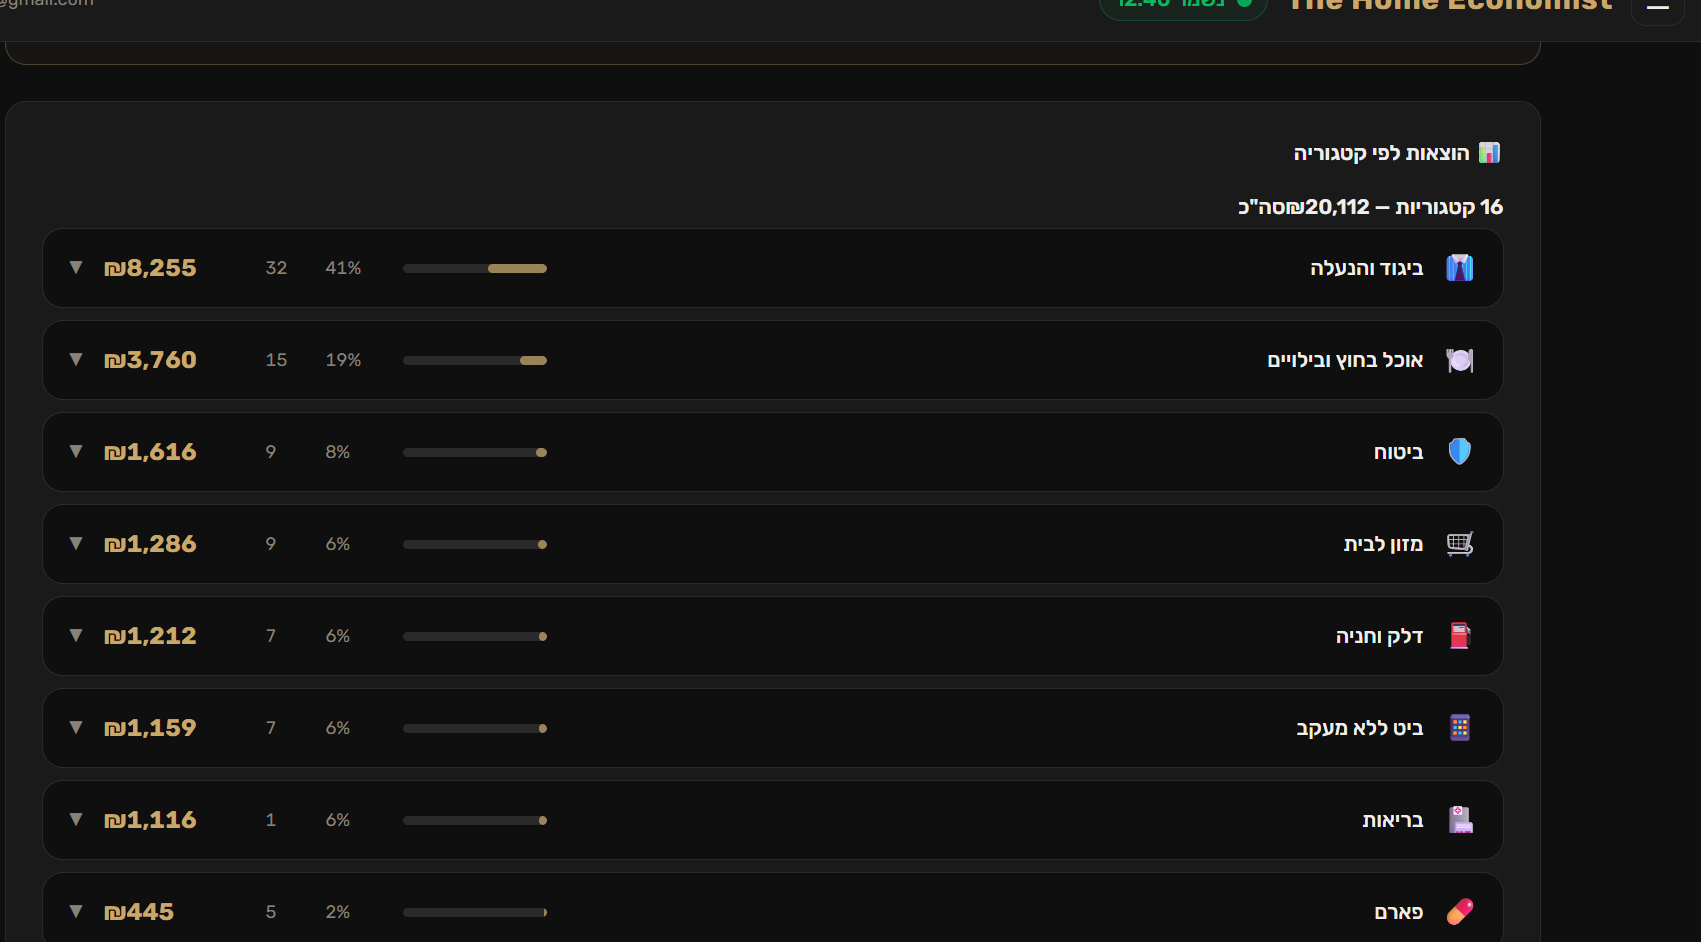
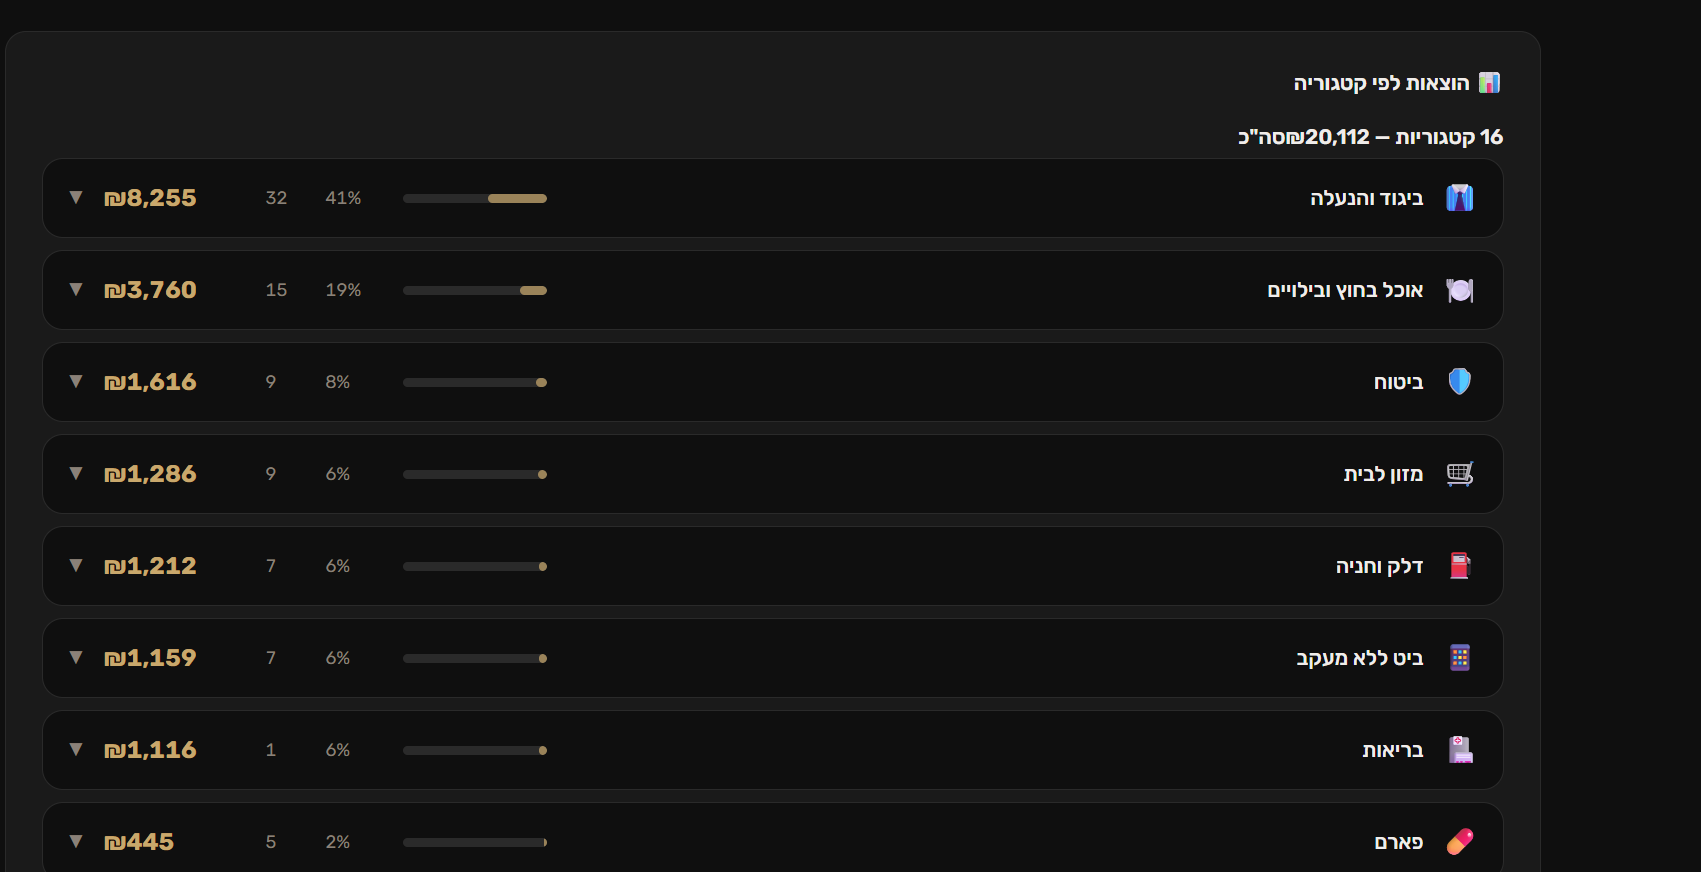
שילוב צילומי מסך אמיתיים בסעיף "איך זה עובד"
- צילום מסך בכל אחד משלושת הצעדים: מיפוי קטגוריות, תיעוד הוצאות ותזרים חי
- גלריית "עוד מסכים מתוך המערכת" עם תקציב חודשי, מגמות, עו"ש, יעדים והלוואות
- חיתוך רצועת ההדר בשני צילומים שבהם הופיעה שארית של כתובת מייל

diff --git a/advisors.html b/advisors.html
@@ -180,6 +180,33 @@
   }
   .step h3 { font-size: 20px; font-weight: 700; margin-bottom: 10px; }
   .step p { color: var(--muted); font-size: 16px; }
+  .shot {
+    display: block;
+    width: 100%;
+    height: auto;
+    margin-top: 22px;
+    border-radius: 10px;
+    border: 1px solid var(--line);
+  }
+
+  /* Screenshot gallery */
+  .gallery-title {
+    text-align: center;
+    font-size: 19px;
+    font-weight: 700;
+    color: var(--gold-light);
+    margin: 58px 0 26px;
+  }
+  .gallery { display: grid; grid-template-columns: repeat(3, 1fr); gap: 18px; }
+  .shot-card {
+    background: var(--surface3);
+    border: 1px solid var(--line);
+    border-radius: 16px;
+    padding: 14px;
+    margin: 0;
+  }
+  .shot-card img { display: block; width: 100%; height: auto; border-radius: 10px; border: 1px solid var(--line); }
+  .shot-card figcaption { color: var(--muted); font-size: 14px; text-align: center; margin-top: 12px; }
 
   /* Features */
   .features { display: grid; grid-template-columns: repeat(3, 1fr); gap: 18px; }
@@ -256,7 +283,7 @@
   .footer-links a:hover { color: var(--gold); }
 
   @media (max-width: 820px) {
-    .cards, .steps, .features { grid-template-columns: 1fr; }
+    .cards, .steps, .features, .gallery { grid-template-columns: 1fr; }
     .hero { padding: 64px 0 56px; }
     section { padding: 60px 0; }
     .header-cta { font-size: 13px; padding: 9px 16px; }
@@ -326,17 +353,44 @@
         <div class="n">1</div>
         <h3>הלקוח מעלה קובץ</h3>
         <p>דוח אשראי או בנק נכנס למערכת, והיא מפענחת ומקטלגת אוטומטית: מנוע זיהוי, מאגר של אלפי בתי עסק ובינה מלאכותית.</p>
+        <img class="shot" src="screenshots/mapping-categories.png" alt="מסך מיפוי הוצאות לפי קטגוריה, אחרי קטלוג אוטומטי" width="1701" height="872" loading="lazy">
       </div>
       <div class="step">
         <div class="n">2</div>
         <h3>התיעוד רץ לבד</h3>
         <p>הלקוח מתעד מהטלפון ביומיום, כולל קליטה אוטומטית של תשלומים בנייד. מינימום הקלדות, מקסימום עקביות.</p>
+        <img class="shot" src="screenshots/expense-log.png" alt="מסך תיעוד הוצאות, יומן ההוצאות של הלקוח" width="1646" height="895" loading="lazy">
       </div>
       <div class="step">
         <div class="n">3</div>
         <h3>אתה רואה הכל</h3>
         <p>דשבורד אחד עם כל הלקוחות: מי בתנועה, מי נתקע ומי צריך אותך עכשיו. ודוח שבועי אוטומטי במייל, אליך ואל הלקוח.</p>
+        <img class="shot" src="screenshots/cashflow.png" alt="מסך תזרים חודשי נטו בעדכון חי" width="1693" height="844" loading="lazy">
       </div>
+    </div>
+
+    <h3 class="gallery-title">עוד מסכים מתוך המערכת</h3>
+    <div class="gallery">
+      <figure class="shot-card">
+        <img src="screenshots/monthly-budget.png" alt="מסך תקציב חודשי, תכנון מול ביצוע" width="1671" height="844" loading="lazy">
+        <figcaption>תקציב חודשי, תכנון מול ביצוע</figcaption>
+      </figure>
+      <figure class="shot-card">
+        <img src="screenshots/trends.png" alt="מסך מגמות עם ניתוח שנתי וגרף הכנסות מול הוצאות" width="1586" height="845" loading="lazy">
+        <figcaption>מגמות וניתוח שנתי</figcaption>
+      </figure>
+      <figure class="shot-card">
+        <img src="screenshots/checking.png" alt="מסך התנהלות עובר ושב עם העודף החודשי" width="1646" height="626" loading="lazy">
+        <figcaption>התנהלות עובר ושב</figcaption>
+      </figure>
+      <figure class="shot-card">
+        <img src="screenshots/goals.png" alt="מסך יעדים פיננסיים" width="1614" height="863" loading="lazy">
+        <figcaption>יעדים פיננסיים</figcaption>
+      </figure>
+      <figure class="shot-card">
+        <img src="screenshots/loans.png" alt="מסך מחשבון הלוואות עם לוח סילוקין" width="1636" height="892" loading="lazy">
+        <figcaption>מחשבון הלוואות ולוח סילוקין</figcaption>
+      </figure>
     </div>
   </div>
 </section>
